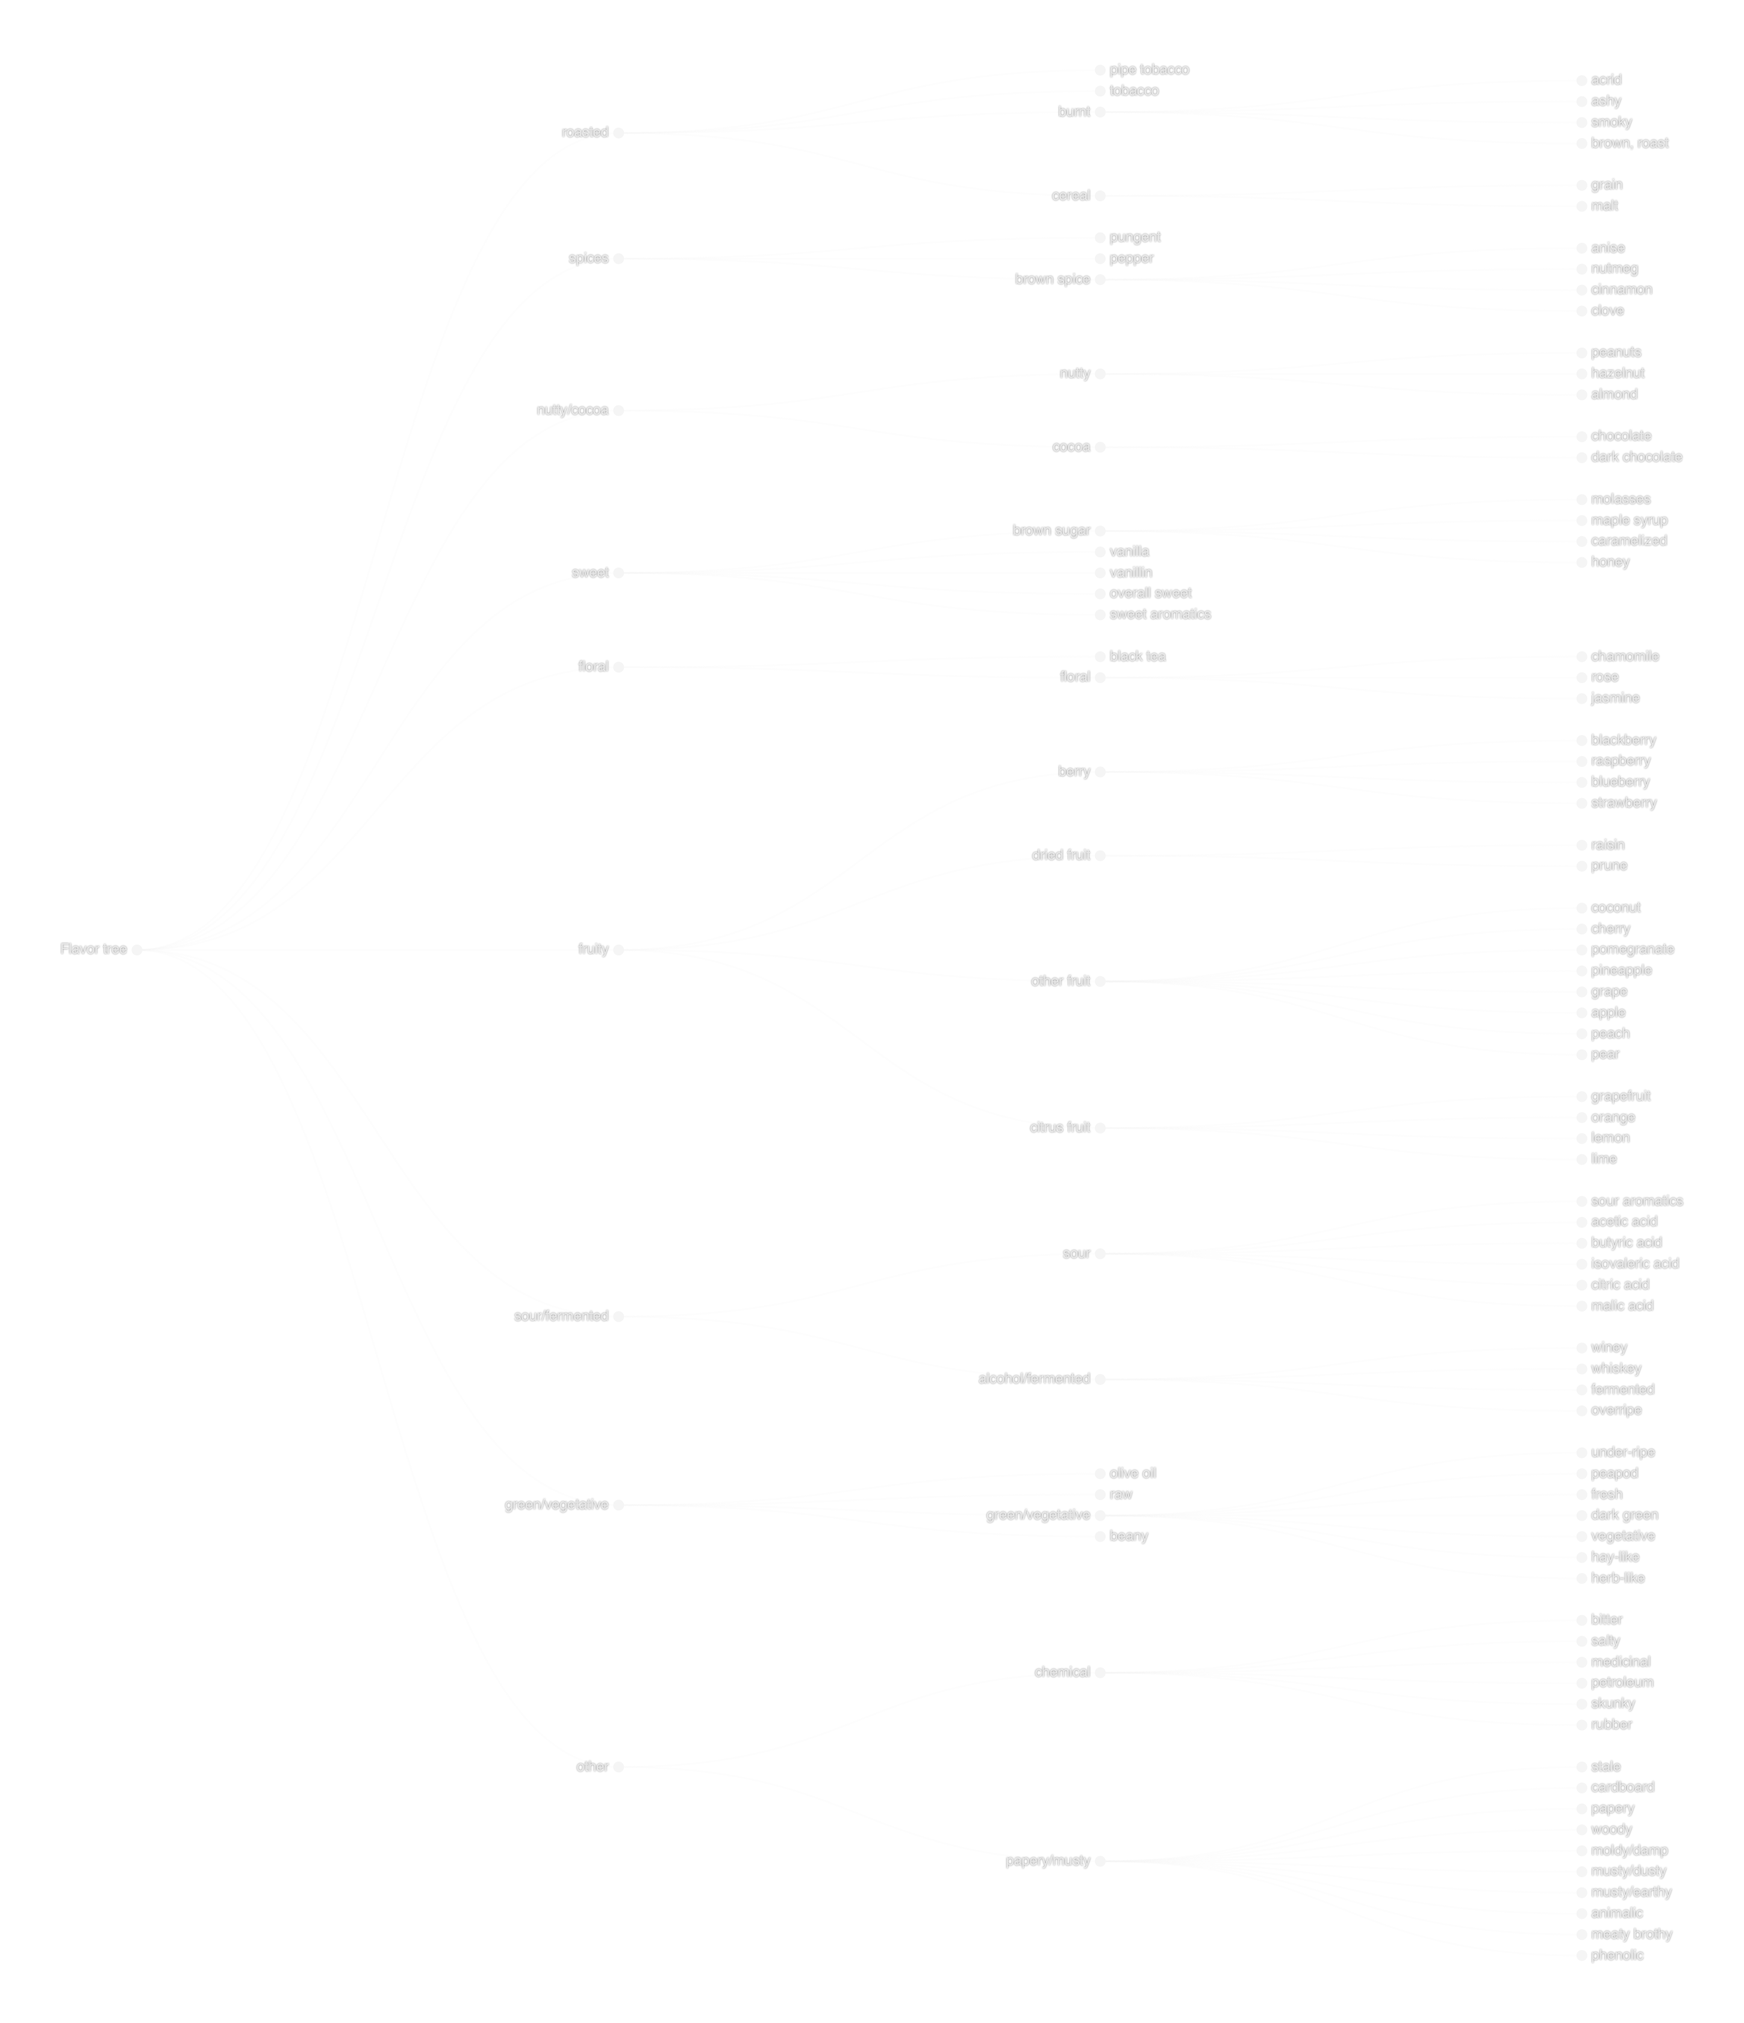
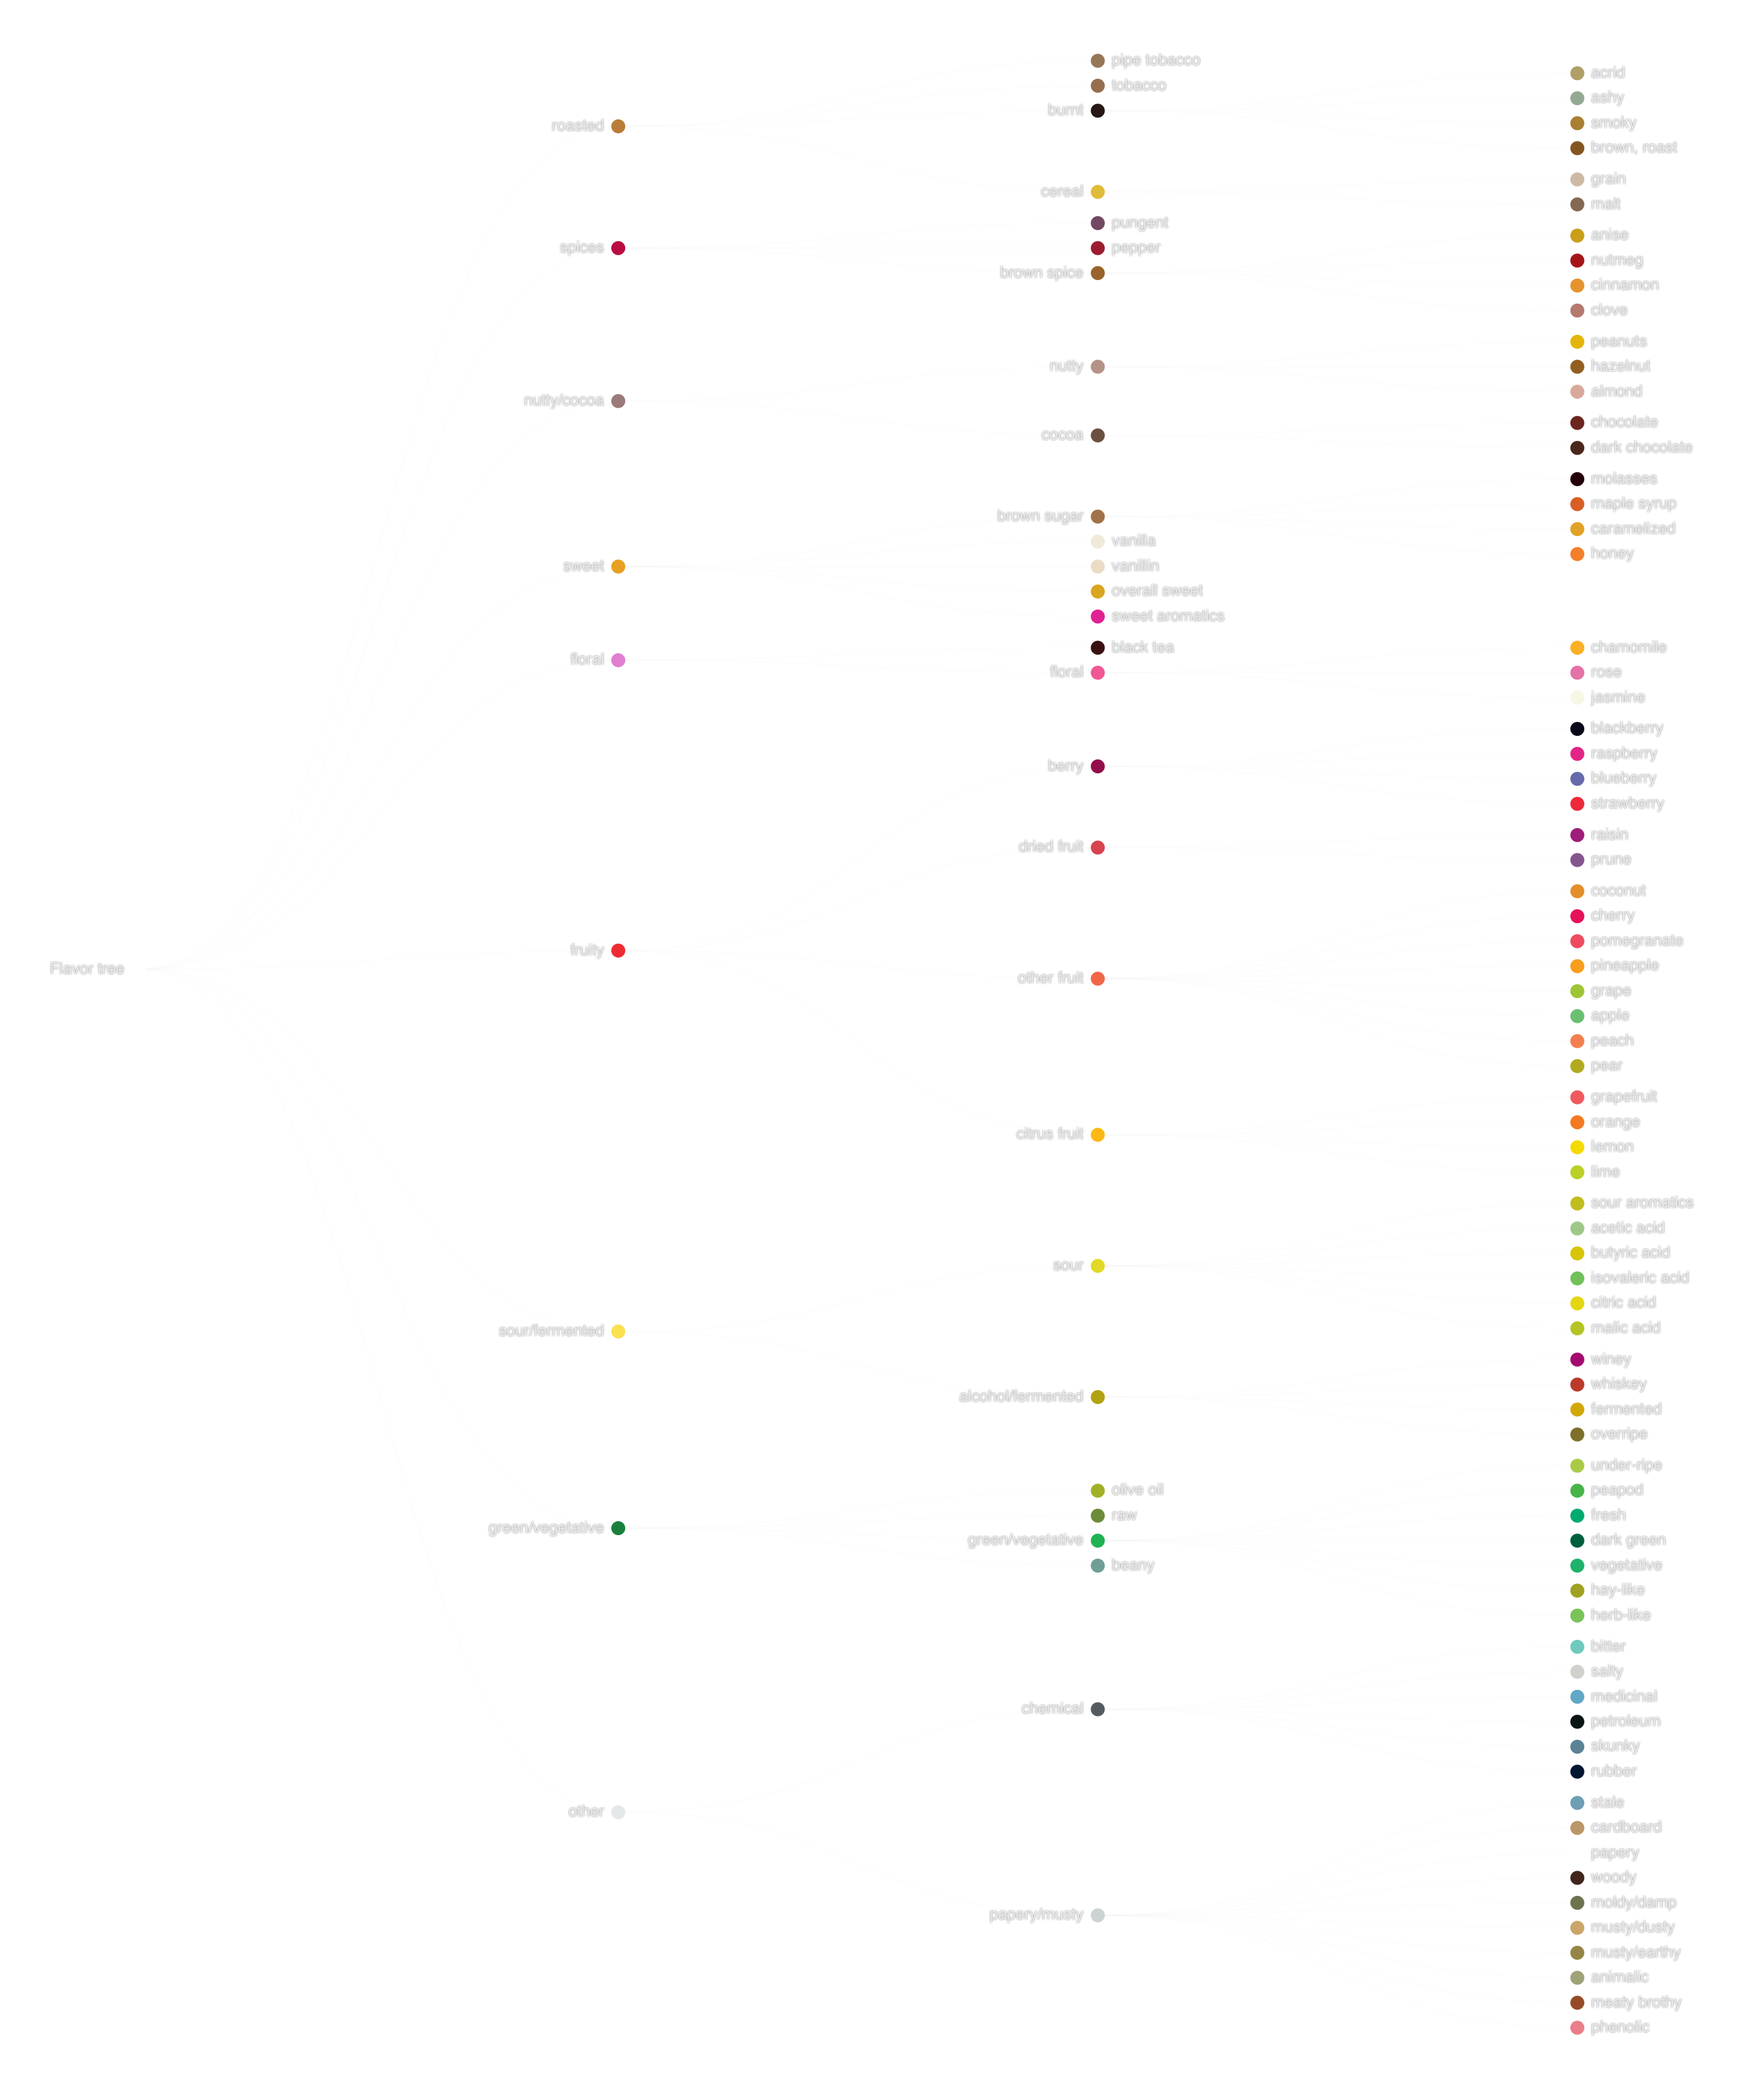
Enhance D3 tree visualization by updating node sizes, text styles, and dynamic color assignments. Adjust layout in flavor-tree.html for improved responsiveness. Update styles in tailwind.styles.css to reflect new design standards.

diff --git a/apps/flavor-tree/tiny-tree.js b/apps/flavor-tree/tiny-tree.js
@@ -43,7 +43,10 @@ class D3TreeVisualization {
     
     setupTree() {
         this.tree = d3.tree()
-            .size([this.height * 2, this.width]);
+            .size([this.height * 2.5, this.width * 1.2])
+            .separation((a, b) => {
+                return a.parent === b.parent ? 2 : 2.5;
+            });
     }
     
     async loadData() {
@@ -57,36 +60,41 @@ class D3TreeVisualization {
             // Fallback to test data
             this.data = {
                 name: "Coffee Flavors",
+                color: "#ffffff",
                 children: [
                     {
                         name: "Roasted",
+                        color: "#ba7d38",
                         children: [
-                            { name: "Pipe Tobacco" },
-                            { name: "Tobacco" },
-                            { name: "Burnt" }
+                            { name: "Pipe Tobacco", color: "#967758" },
+                            { name: "Tobacco", color: "#956E50" },
+                            { name: "Burnt", color: "#261816" }
                         ]
                     },
                     {
                         name: "Spices",
+                        color: "#b90d41",
                         children: [
-                            { name: "Pungent" },
-                            { name: "Pepper" },
-                            { name: "Brown Spice" }
+                            { name: "Pungent", color: "#734864" },
+                            { name: "Pepper", color: "#9C1C30" },
+                            { name: "Brown Spice", color: "#99642B" }
                         ]
                     },
                     {
                         name: "Nutty/Cocoa",
+                        color: "#9a7b79",
                         children: [
-                            { name: "Nutty" },
-                            { name: "Cocoa" }
+                            { name: "Nutty", color: "#b59287" },
+                            { name: "Cocoa", color: "#6B5042" }
                         ]
                     },
                     {
                         name: "Sweet",
+                        color: "#E8A022",
                         children: [
-                            { name: "Brown Sugar" },
-                            { name: "Vanilla" },
-                            { name: "Vanillin" }
+                            { name: "Brown Sugar", color: "#A27248" },
+                            { name: "Vanilla", color: "#F0EAD9" },
+                            { name: "Vanillin", color: "#ECDBC4" }
                         ]
                     }
                 ]
@@ -98,12 +106,16 @@ class D3TreeVisualization {
     transformData(coffeeFlavors) {
         const transformedData = {
             name: "Flavor tree",
+            color: "#ffffff", // Default color for root
             children: coffeeFlavors.map(flavor => ({
                 name: flavor.name,
+                color: flavor.color,
                 children: flavor.children ? flavor.children.map(child => ({
                     name: child.name,
+                    color: child.color,
                     children: child.children ? child.children.map(grandchild => ({
-                        name: grandchild.name
+                        name: grandchild.name,
+                        color: grandchild.color
                     })) : null
                 })) : null
             }))
@@ -140,11 +152,12 @@ class D3TreeVisualization {
             .attr("transform", d => `translate(${d.y},${d.x})`);
         
         node.append("circle")
-            .attr("r", 4.5);
+            .attr("r", 7)
+            .style("fill", d => d.data.color || "#f5f5f5");
         
         node.append("text")
             .attr("dy", "0.25em")
-            .attr("x", d => d.children ? -8 : 8)
+            .attr("x", d => d.children ? -14 : 14)
             .style("text-anchor", d => d.children ? "end" : "start")
             .text(d => d.data.name);
         

diff --git a/src/styles.css b/src/styles.css
@@ -1405,6 +1405,10 @@ a:hover {
   gap: 6rem;
 }
 
+.gap-28 {
+  gap: 7rem;
+}
+
 .gap-32 {
   gap: 8rem;
 }
@@ -1413,20 +1417,16 @@ a:hover {
   gap: 1rem;
 }
 
+.gap-40 {
+  gap: 10rem;
+}
+
 .gap-6 {
   gap: 1.5rem;
 }
 
 .gap-8 {
   gap: 2rem;
-}
-
-.gap-40 {
-  gap: 10rem;
-}
-
-.gap-28 {
-  gap: 7rem;
 }
 
 .gap-x-0 {
@@ -2066,22 +2066,6 @@ a:hover {
     flex-direction: row;
   }
 
-  .md\:gap-20 {
-    gap: 5rem;
-  }
-
-  .md\:gap-24 {
-    gap: 6rem;
-  }
-
-  .md\:gap-40 {
-    gap: 10rem;
-  }
-
-  .md\:gap-32 {
-    gap: 8rem;
-  }
-
   .md\:gap-28 {
     gap: 7rem;
   }
@@ -2093,10 +2077,6 @@ a:hover {
 
   .md\:gap-y-32 {
     row-gap: 8rem;
-  }
-
-  .md\:p-16 {
-    padding: 4rem;
   }
 
   .md\:p-20 {

diff --git a/apps/flavor-tree/tiny-tree.css b/apps/flavor-tree/tiny-tree.css
@@ -74,13 +74,13 @@ body {
 
 /* D3 Tree styles */
 .node circle {
-    fill: #f5f5f5;
+    /* fill: #f5f5f5; - Removed since we're now setting colors dynamically */
 }
 
 .node text {
     font-family: 'Overused Grotesk', sans-serif;
     font-weight: 400;
-    font-size: 12px;
+    font-size: 16px;
     fill: rgba(245, 245, 245, 0.8);
     text-shadow: 0 0 3px rgba(0, 0, 0, 0.6);
 }
@@ -141,6 +141,6 @@ body {
     }
     
     .node text {
-        font-size: 10px;
+        font-size: 14px;
     }
 } 

diff --git a/work/flavor-tree.html b/work/flavor-tree.html
@@ -35,7 +35,7 @@
                         <span class="revealable"><a href="../apps/flavor-tree/index.html" target="_blank" class="underline text-small">Browse Flavor Tree ↗</a></span>
                     </div>
                 </div>
-                <div>
+                <div class="p-6 md:p-20">
                     <img src="../src/images/flavor-tree/flavor-tiny-tree.png" class="w-full">
                 </div>
                 <div class="p-6 md:p-20 flex gap-6 md:gap-28">
